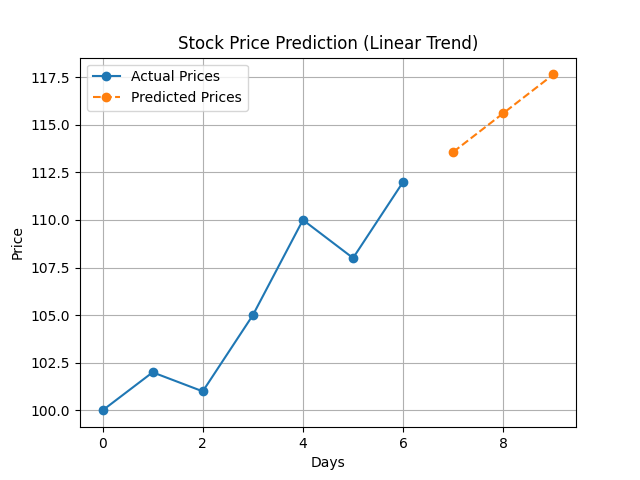
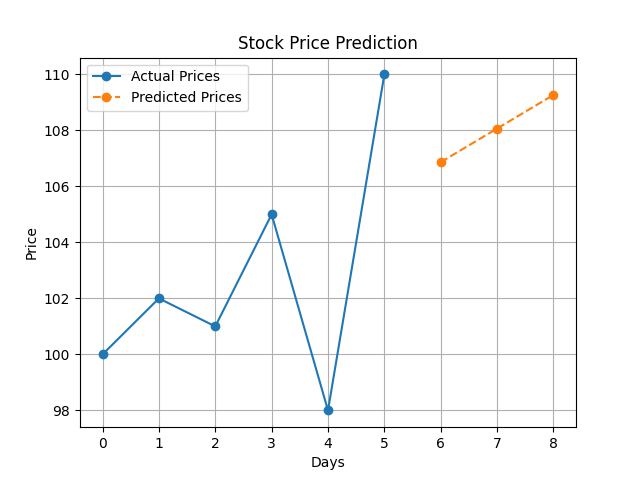
Added main menu

diff --git a/stock_analyzer.py b/stock_analyzer.py
@@ -1,162 +1,147 @@
-# Stock Market Statistical Analyzer
-# This program calculates daily stock returns.
-
-# Ask user to enter stock prices
 import math
-import matplotlib.pyplot as plt
+import os
 import numpy as np
+import matplotlib.pyplot as plt
 
-prices = input("Enter stock prices separated by spaces: ")
 
-# Convert input into numbersclear
-prices = [float(price) for price in prices.split()]
+# =========================
+# STATISTICAL ANALYSIS
+# =========================
+def calculate_analysis(prices):
 
-# Check if enough prices were entered
-if len(prices) < 2:
-    print("Please enter at least two stock prices.")
-    print("\n--- Stock Market Analysis ---")
-else:
-    print("\n--- Stock Market Analysis ---")
-    # Create empty list for daily returns
     daily_returns = []
 
-    # Calculate daily returns
     for i in range(1, len(prices)):
-
         daily_return = ((prices[i] - prices[i - 1]) / prices[i - 1]) * 100
-
         daily_returns.append(daily_return)
 
-    # Display results
-    print("\nDaily Returns:")
-    
-    for index, value in enumerate(daily_returns, start=1):
-        print(f"Day {index}: {value:.2f}%")
-    
-        # Calculate mean daily return
     mean_return = sum(daily_returns) / len(daily_returns)
 
-    # Display mean return
-    print(f"\nAverage Daily Return: {mean_return:.2f}%")
-    
-
-        # Interpret trend
-    if mean_return > 0:
-        print("Trend Analysis: Overall Upward Trend")
-
-    elif mean_return < 0:
-        print("Trend Analysis: Overall Downward Trend")
-
-    else:
-        print("Trend Analysis: Stable Trend")
-            # Calculate variance
     variance = sum((x - mean_return) ** 2 for x in daily_returns) / len(daily_returns)
-
-    # Calculate standard deviation
     std_deviation = math.sqrt(variance)
 
-    # Display standard deviation
-    print(f"Volatility (Standard Deviation): {std_deviation:.2f}")
-        # Interpret volatility
-    if std_deviation > 5:
-        print("Risk Level: High Volatility")
-
-    elif std_deviation > 2:
-        print("Risk Level: Moderate Volatility")
-
-    else:
-        print("Risk Level: Low Volatility")
-            # Find highest and lowest stock prices
     highest_price = max(prices)
     lowest_price = min(prices)
-
-    # Display highest and lowest prices
-    print(f"Highest Stock Price: {highest_price}")
-    print(f"Lowest Stock Price: {lowest_price}")
-        # Calculate price range
     price_range = highest_price - lowest_price
 
-    # Display price range
-    print(f"Price Range: {price_range}")
-        # Create stock price graph
-    plt.plot(prices)
+    return daily_returns, mean_return, std_deviation, highest_price, lowest_price, price_range
 
-    # Add graph title and labels
-    plt.title("Stock Price Trend")
-    plt.xlabel("Days")
-    plt.ylabel("Stock Price")
 
-    # Display graph
-    plt.show()
-    # Create stock price graph
-    plt.figure()
+# =========================
+# PREDICTION MODEL
+# =========================
+def predict_prices(prices):
 
-    plt.plot(prices, marker='o')
-
-    plt.title("Stock Price Trend")
-    plt.xlabel("Days")
-    plt.ylabel("Stock Price")
-    plt.grid(True)
-
-# Save FIRST
-    plt.savefig("results/stock_price_trend.png")
-
-# THEN show
-    plt.show()
-
-    # Calculate Moving Average (SMA with window size 3)
-    window_size = 3
-    moving_averages = []
-
-    for i in range(len(prices)):
-
-        if i < window_size - 1:
-            continue
-
-        window = prices[i - window_size + 1:i + 1]
-        sma = sum(window) / window_size
-        moving_averages.append(sma)
-
-    print("\nMoving Average (3-day):", moving_averages)
-        # Moving average graph
-    plt.figure()
-
-    plt.plot(range(window_size - 1, len(prices)), moving_averages, marker='o')
-    plt.plot(prices, alpha=0.5)
-
-    plt.title("Stock Price vs Moving Average")
-    plt.xlabel("Days")
-    plt.ylabel("Price")
-    plt.grid(True)
-
-    plt.savefig("results/moving_average.png")
-    plt.show()
-        # Trend prediction using linear regression
     x = np.arange(len(prices))
     y = np.array(prices)
 
-    # Fit line (slope + intercept)
     slope, intercept = np.polyfit(x, y, 1)
 
-    # Predict next 3 days
     future_days = np.array([len(prices), len(prices)+1, len(prices)+2])
     predictions = slope * future_days + intercept
 
-    print("\nPredicted Future Prices:")
-    for i, price in enumerate(predictions, start=1):
-        print(f"Day +{i}: {price:.2f}")
+    return x, y, future_days, predictions
 
-            # Plot prediction graph
-    plt.figure()
 
-    plt.plot(x, y, marker='o', label="Actual Prices")
-    plt.plot(future_days, predictions, marker='o', linestyle='dashed', label="Predicted Prices")
+# =========================
+# MAIN PROGRAM
+# =========================
 
-    plt.title("Stock Price Prediction (Linear Trend)")
-    plt.xlabel("Days")
-    plt.ylabel("Price")
-    plt.grid(True)
-    plt.legend()
+prices = input("Enter stock prices separated by spaces: ")
+prices = [float(price) for price in prices.split()]
 
-    plt.savefig("results/prediction.png")
-    plt.show()
+os.makedirs("results", exist_ok=True)
+
+while True:
+
+    print("\n--- STOCK ANALYZER MENU ---")
+    print("1. Show Statistical Analysis")
+    print("2. Show Graphs")
+    print("3. Show Prediction")
+    print("4. Exit")
+
+    choice = input("Enter choice: ")
+
+    # =========================
+    # OPTION 1 - ANALYSIS
+    # =========================
+    if choice == "1":
+
+        daily_returns, mean_return, std_deviation, highest_price, lowest_price, price_range = calculate_analysis(prices)
+
+        print("\n--- ANALYSIS ---")
+        print("Daily Returns:", daily_returns)
+        print(f"Mean Return: {mean_return:.2f}%")
+        print(f"Volatility: {std_deviation:.2f}")
+        print(f"Highest Price: {highest_price}")
+        print(f"Lowest Price: {lowest_price}")
+        print(f"Price Range: {price_range}")
+
+        if mean_return > 0:
+            print("Trend: Upward")
+        elif mean_return < 0:
+            print("Trend: Downward")
+        else:
+            print("Trend: Stable")
+
+
+    # =========================
+    # OPTION 2 - GRAPHS
+    # =========================
+    elif choice == "2":
+
+        daily_returns, _, _, _, _, _ = calculate_analysis(prices)
+
+        # Stock price graph
+        plt.figure()
+        plt.plot(prices, marker='o')
+        plt.title("Stock Price Trend")
+        plt.xlabel("Days")
+        plt.ylabel("Price")
+        plt.grid(True)
+        plt.savefig("results/stock_price_trend.png")
+        plt.show()
+
+        # Daily returns graph
+        plt.figure()
+        plt.plot(daily_returns, marker='o')
+        plt.title("Daily Returns")
+        plt.xlabel("Days")
+        plt.ylabel("Return (%)")
+        plt.grid(True)
+        plt.savefig("results/daily_returns.png")
+        plt.show()
+
+
+    # =========================
+    # OPTION 3 - PREDICTION
+    # =========================
+    elif choice == "3":
+
+        x, y, future_days, predictions = predict_prices(prices)
+
+        plt.figure()
+        plt.plot(x, y, marker='o', label="Actual Prices")
+        plt.plot(future_days, predictions, marker='o', linestyle='dashed', label="Predicted Prices")
+        plt.title("Stock Price Prediction")
+        plt.xlabel("Days")
+        plt.ylabel("Price")
+        plt.legend()
+        plt.grid(True)
+        plt.savefig("results/prediction.png")
+        plt.show()
+
+        print("\nPredicted Prices:")
+        for i, p in enumerate(predictions, 1):
+            print(f"Day +{i}: {p:.2f}")
+
+
+    # =========================
+    # OPTION 4 - EXIT
+    # =========================
+    elif choice == "4":
+        print("Exiting program...")
+        break
+
+    else:
+        print("Invalid choice. Try again.")
